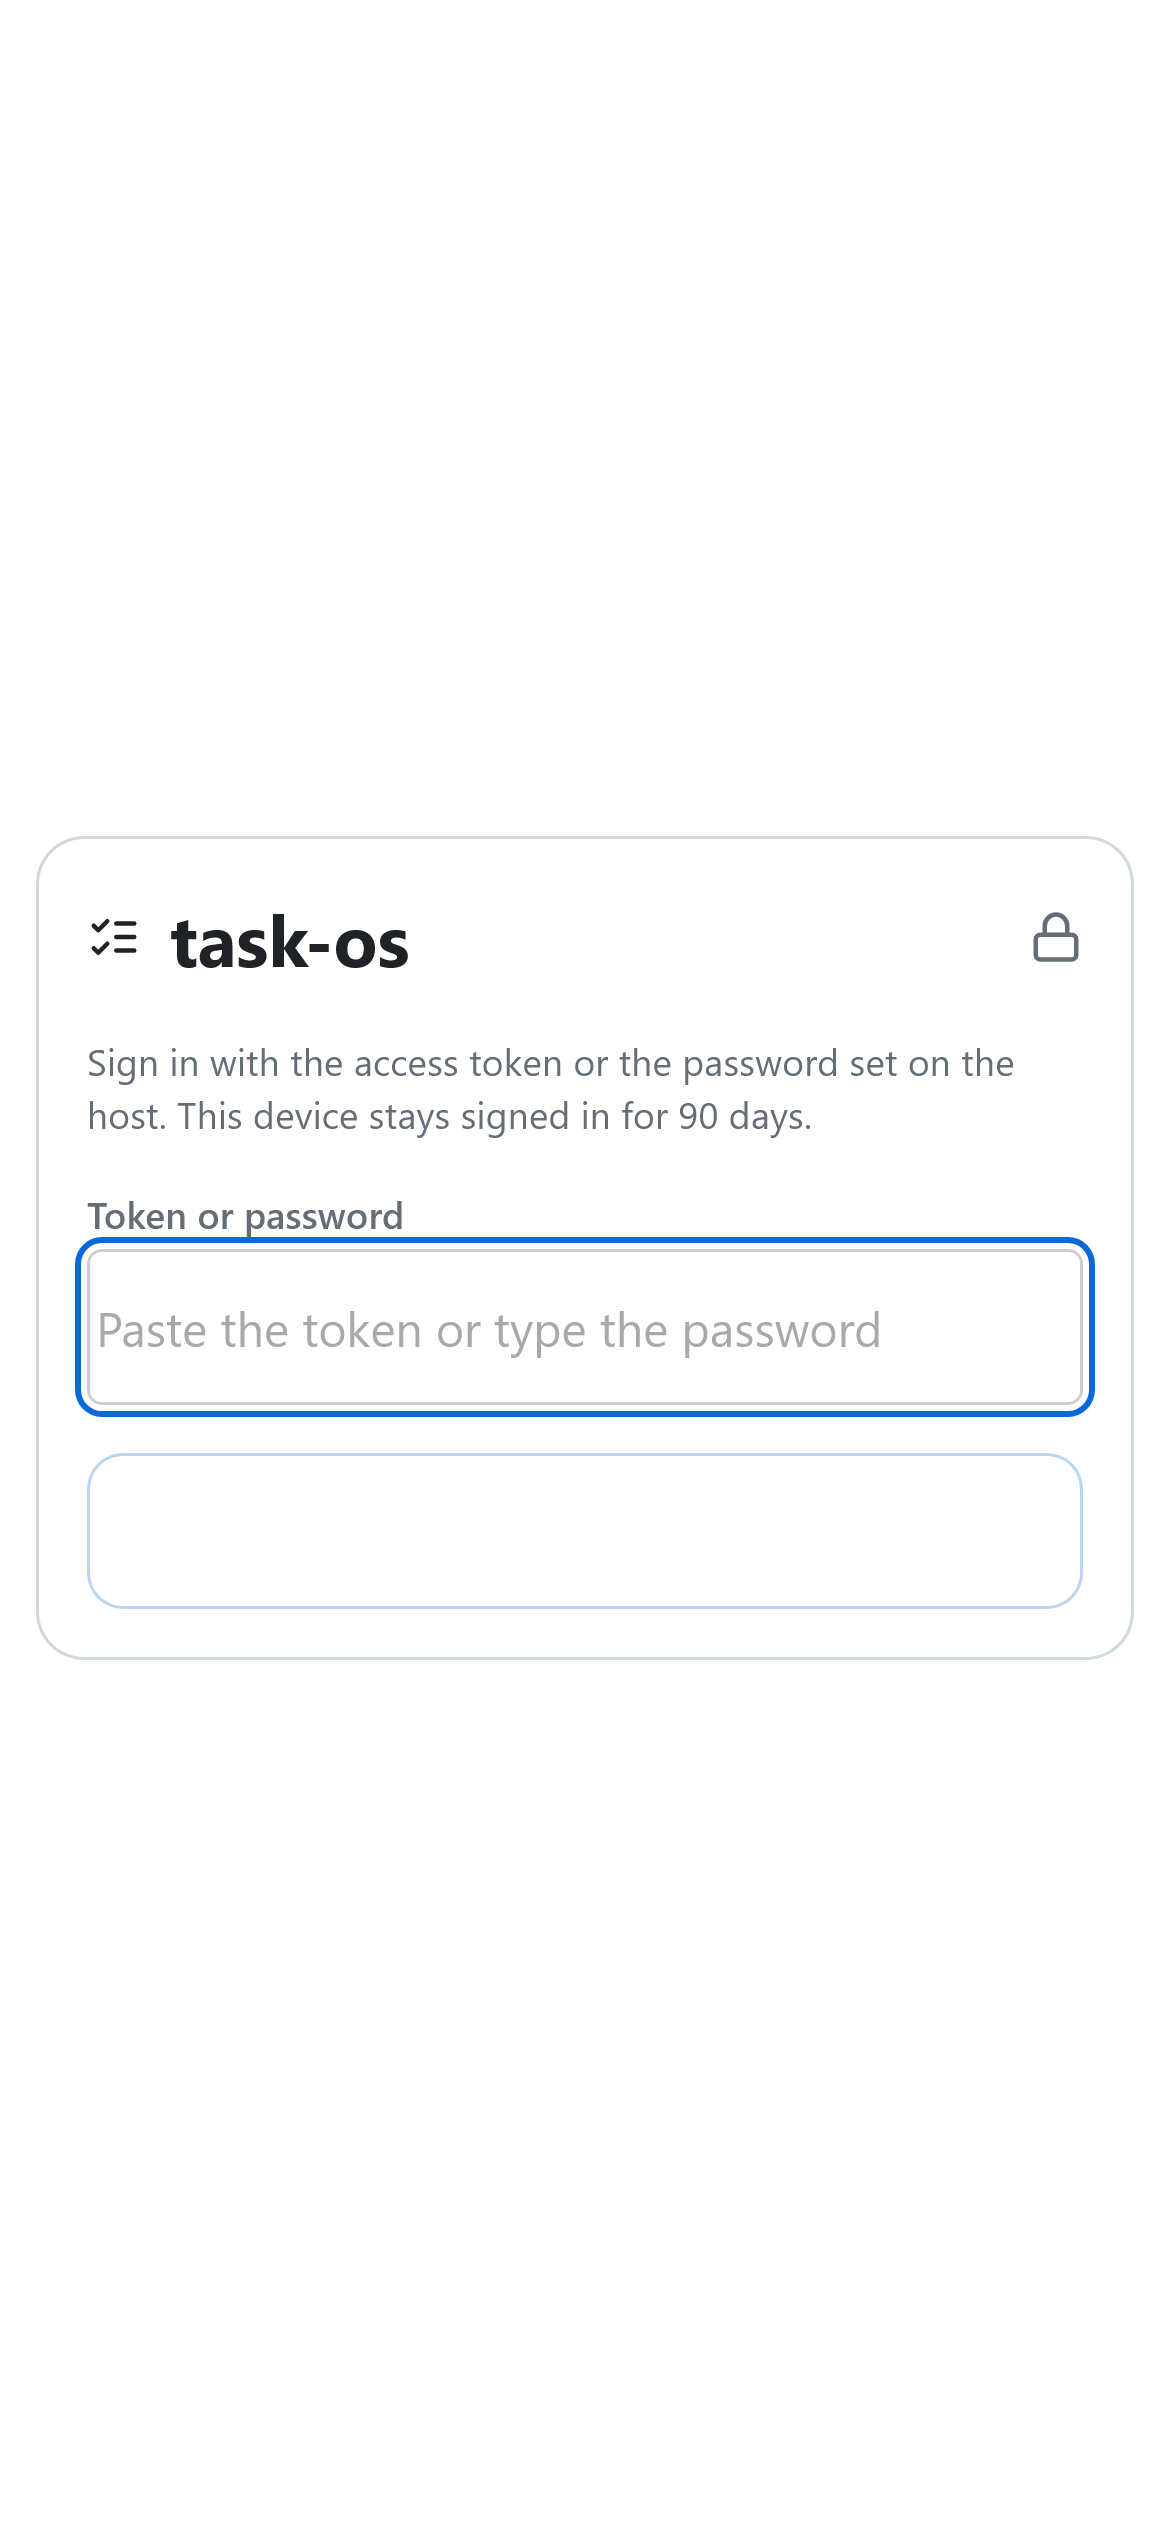
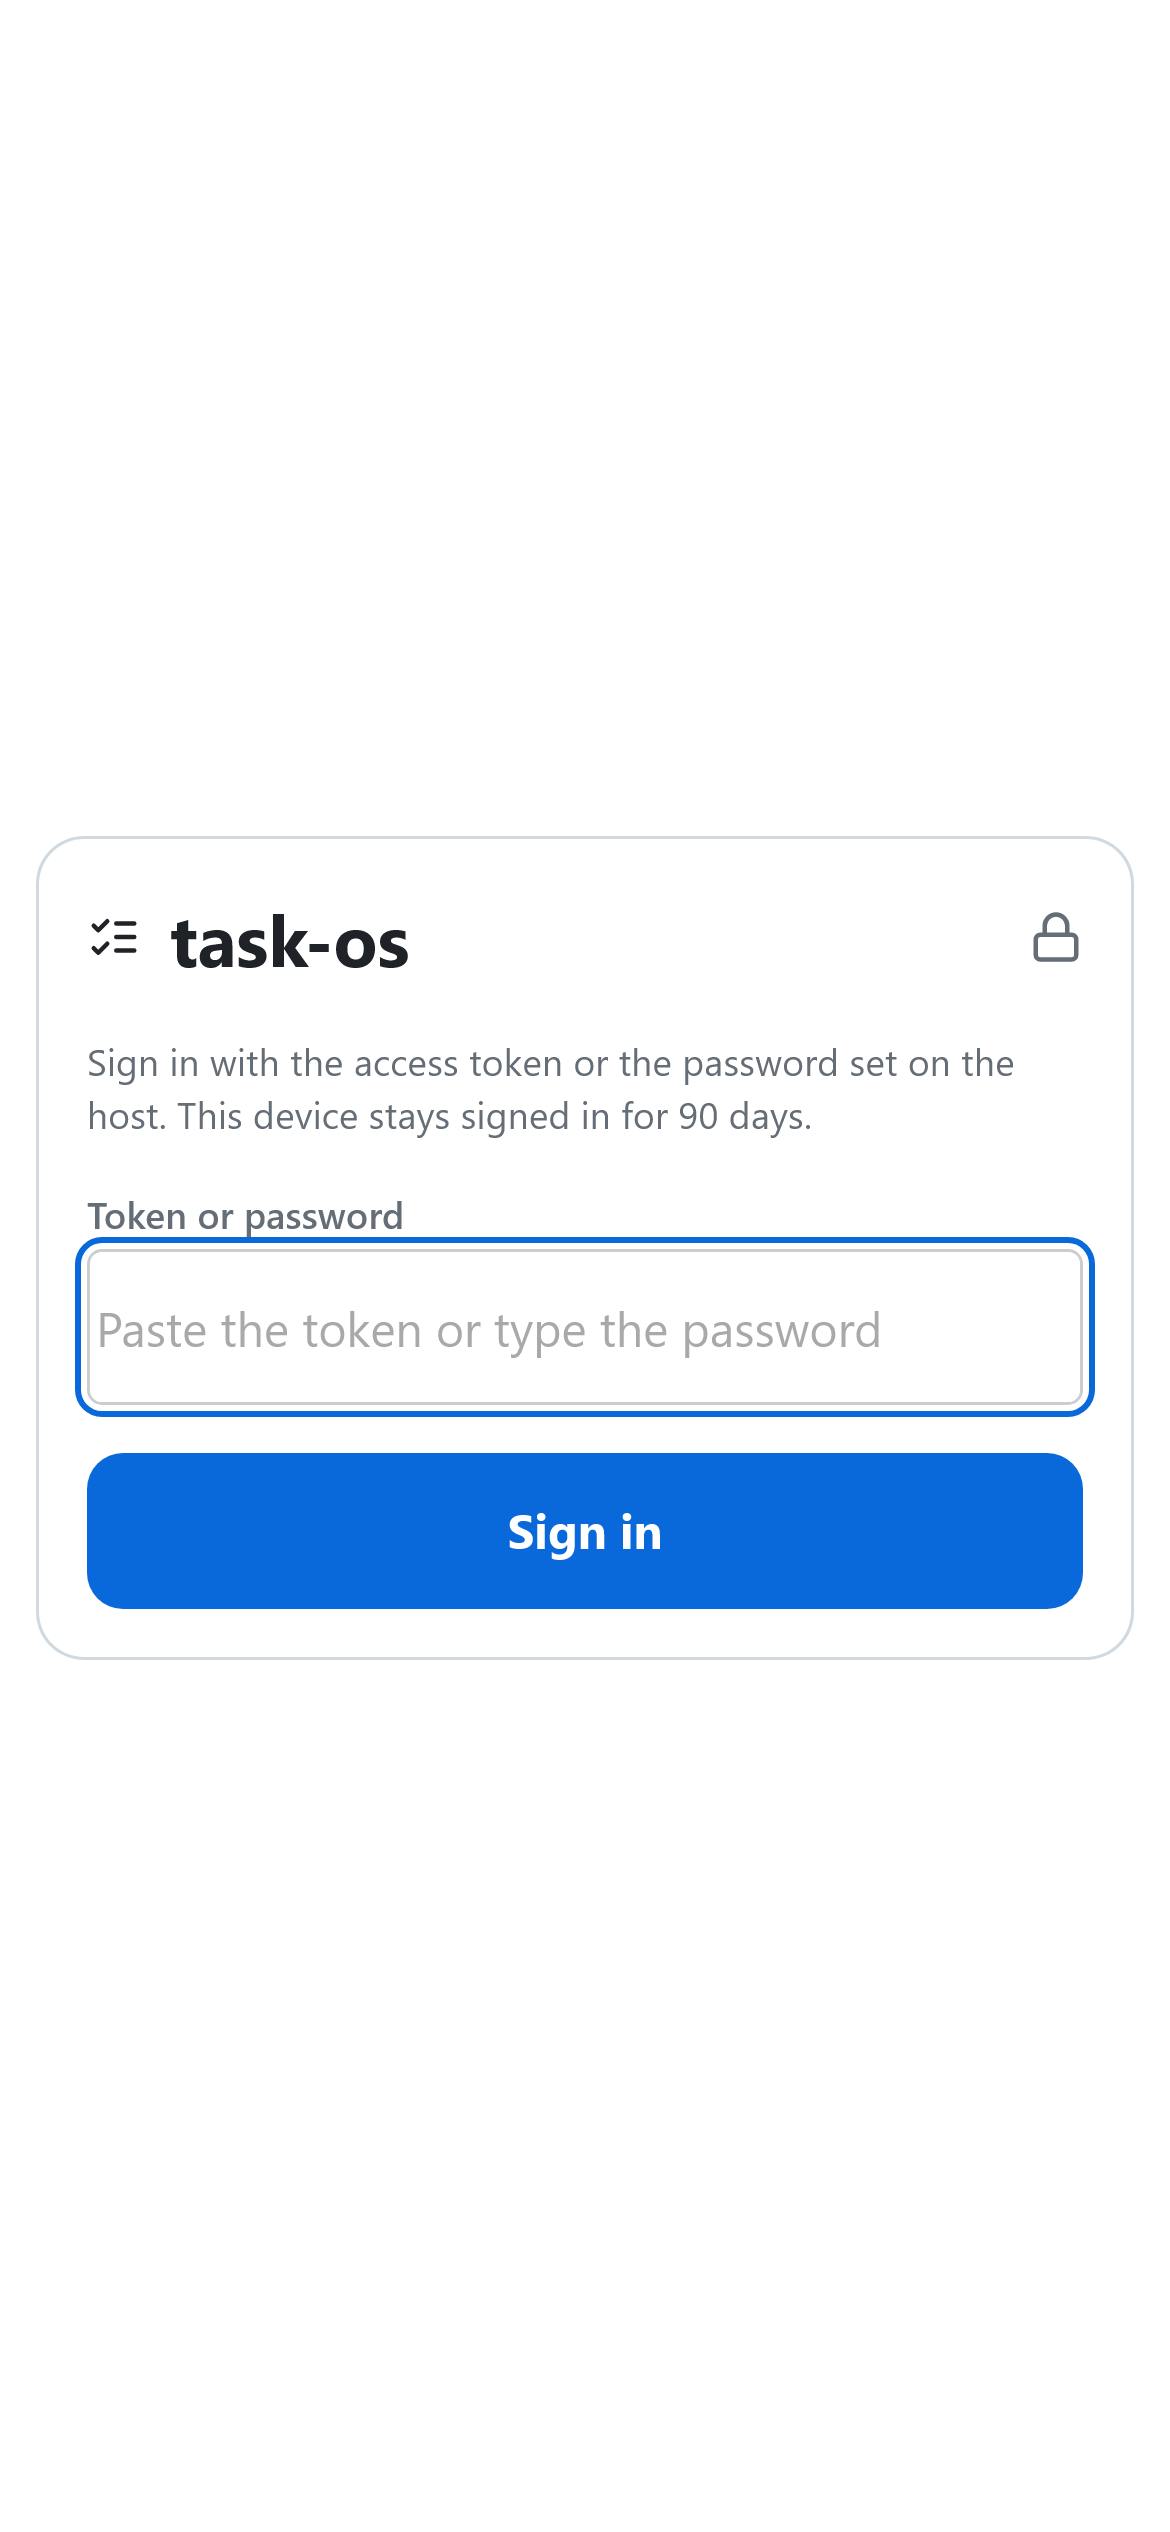
fix: define --accent-fill/--danger-text/--control-border tokens
- the re-vendored button/switch/modal CSS referenced these three
  custom properties but styles.css never defined them, so
  .button-primary (e.g. the login Sign in button) fell back to a
  transparent fill with invisible text
- add all three to :root and [data-theme="dark"] with the hex
  values already documented in the vendored README.md files
- re-baseline the two gallery shots that show the fix (login button
  now renders solid blue with visible text); other regenerated shots
  in this run were raster noise or already-allowlisted and were
  restored, not committed

Changed region(s): [[0.0615, 0.5616, 0.9231, 0.6552]]

diff --git a/app/webapp/static/styles.css b/app/webapp/static/styles.css
@@ -31,10 +31,13 @@
   /* colors — accent + status */
   --accent: #0969da;
   --accent-fg: #ffffff;
+  --accent-fill: #0969da;    /* accent FILL for a solid primary (fleet-config#963) */
   --accent-text: #0550ae;    /* accent TEXT on an accent-soft tint (active nav tab) */
   --success: #1a7f37;
   --attention: #9a6700;
   --danger: #cf222e;
+  --danger-text: #a40e26;    /* danger TEXT on a deficit-soft tint (fleet-config#963) */
+  --control-border: #818b98; /* inline control borders / switch off-track, 3:1+ vs card (fleet-config#963) */
   /* accent derivatives — theme-independent color-mix over the per-theme accent */
   --accent-soft: color-mix(in srgb, var(--accent) 16%, transparent);
   --accent-border-soft: color-mix(in srgb, var(--accent) 24%, transparent);
@@ -99,10 +102,13 @@
   --line-muted: #21262d;
   --accent: #2f81f7;
   --accent-fg: #ffffff;
+  --accent-fill: #1f6feb;
   --accent-text: #58a6ff;
   --success: #3fb950;
   --attention: #d29922;
   --danger: #f85149;
+  --danger-text: #ff7b72;
+  --control-border: #6e7681;
   --shadow: 0 8px 24px rgba(1, 4, 9, 0.6);
   --tabbar-bg: rgba(22, 27, 34, 0.86);
   --tabbar-border: rgba(255, 255, 255, 0.13);
